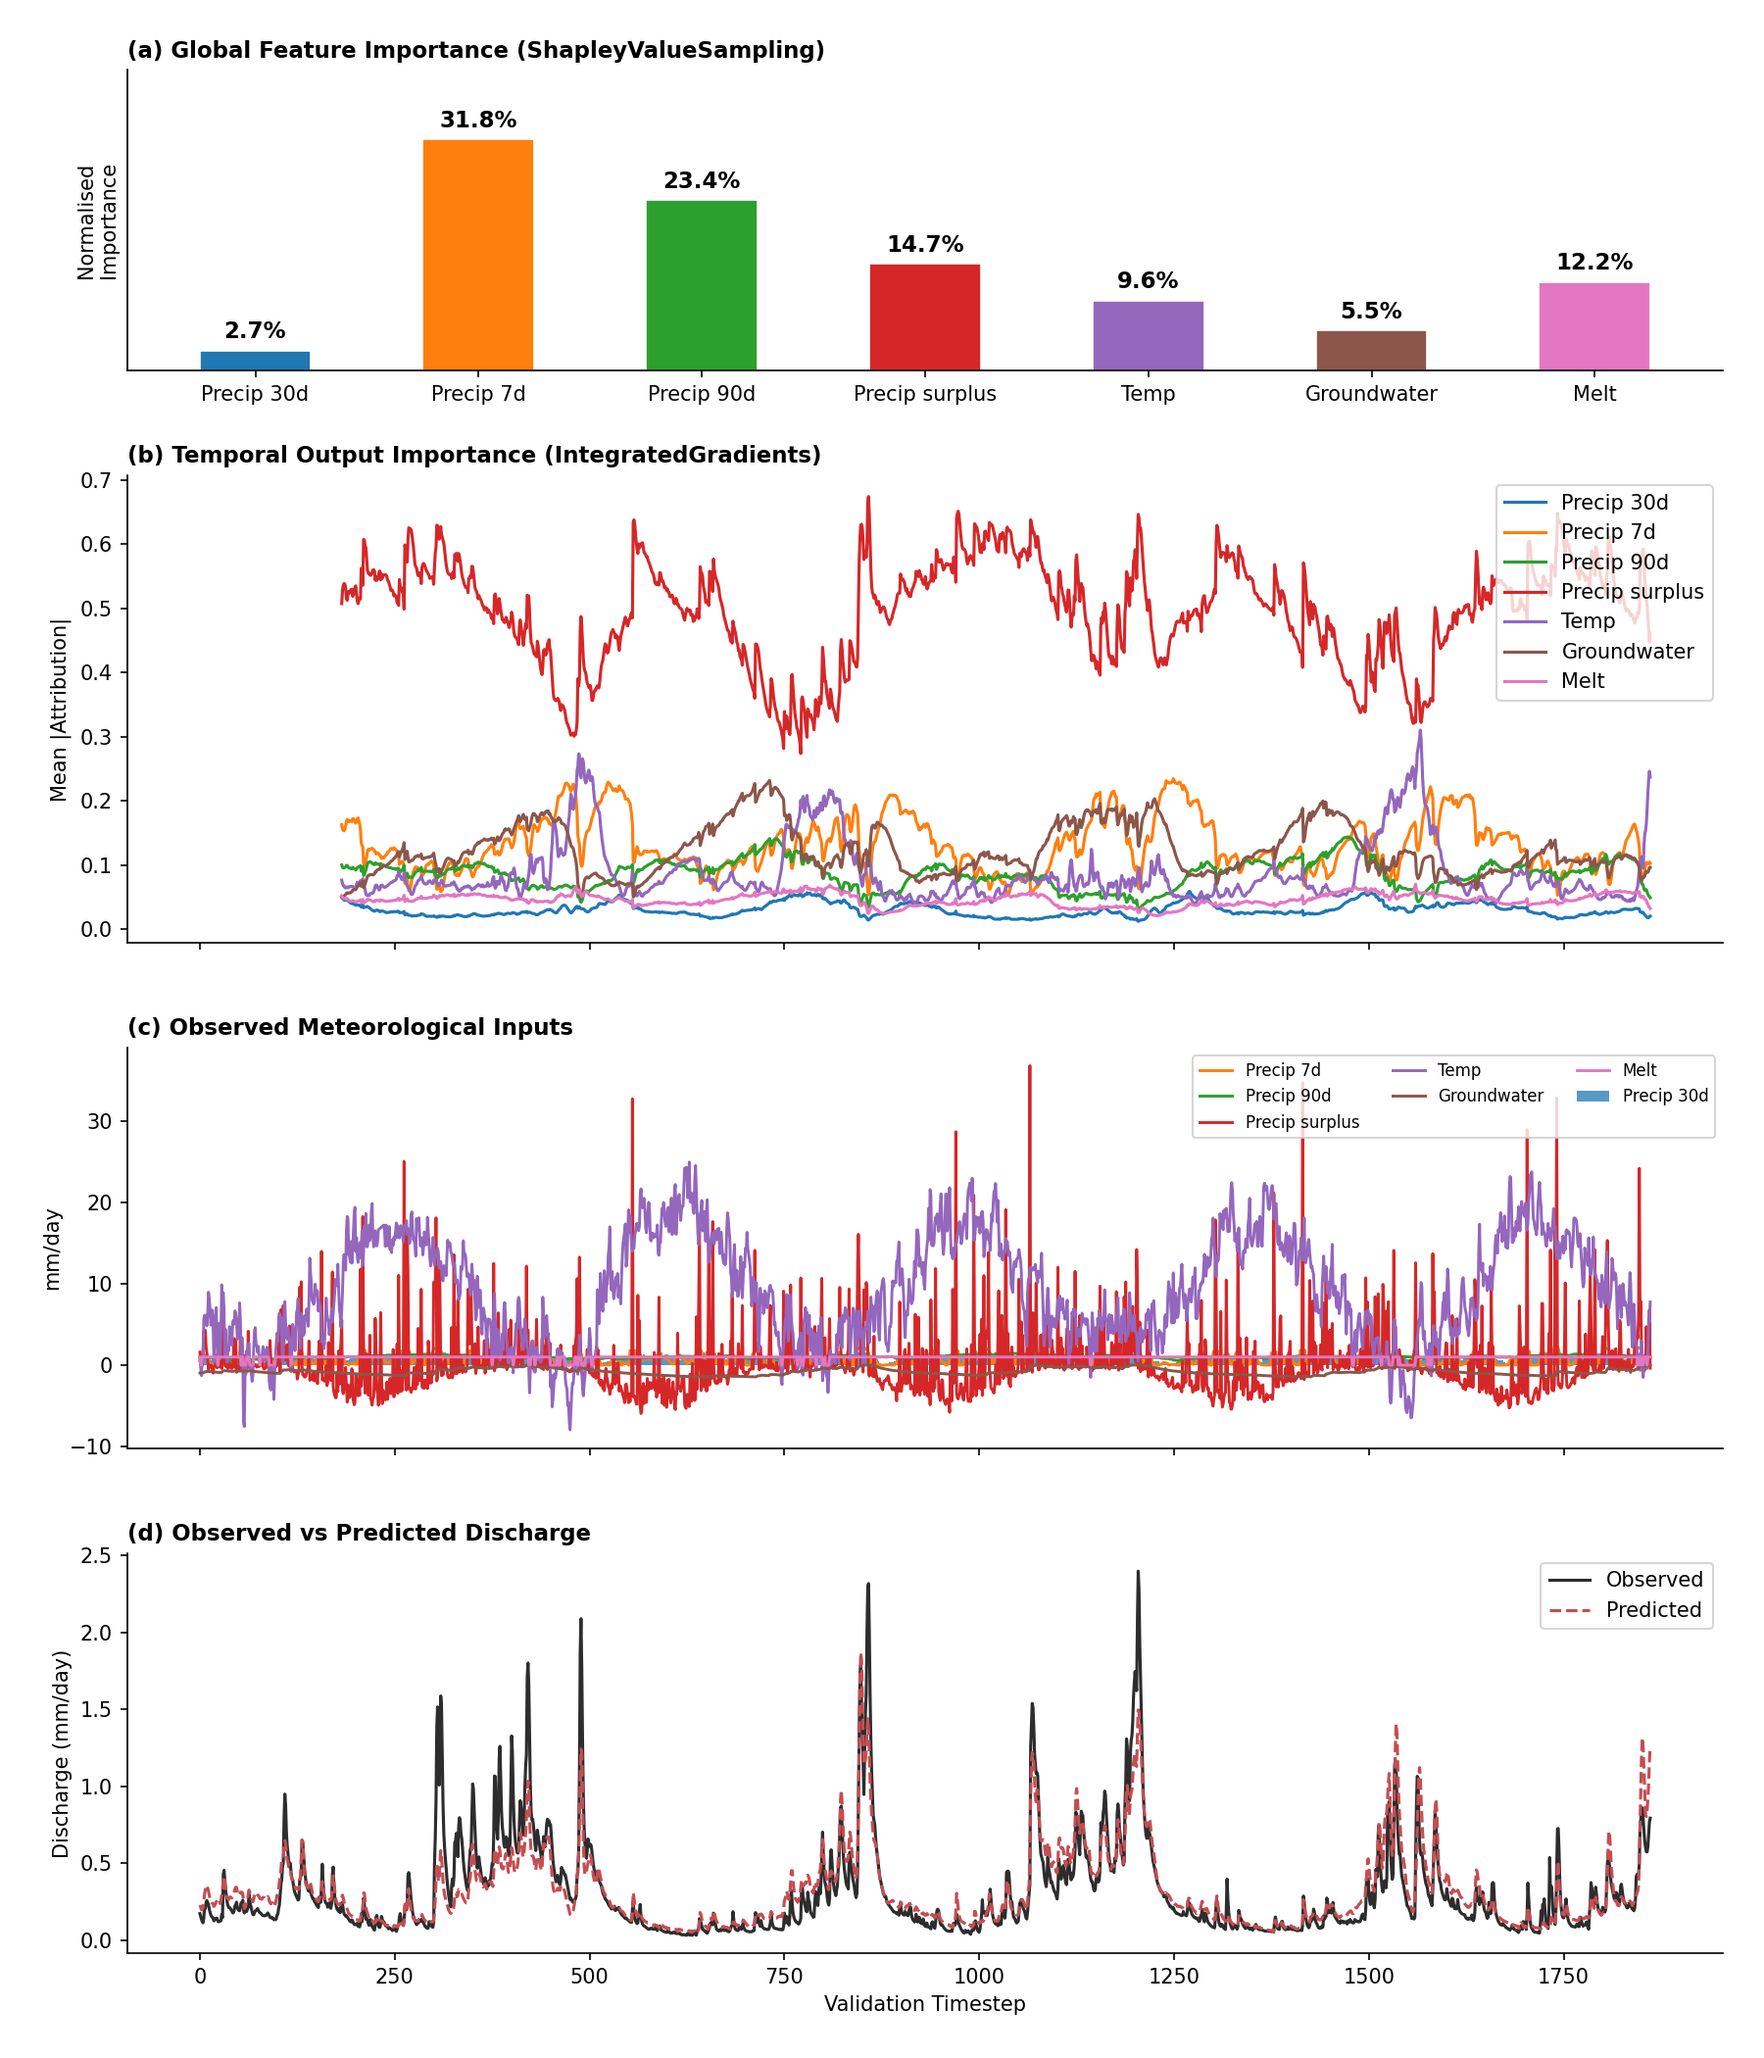
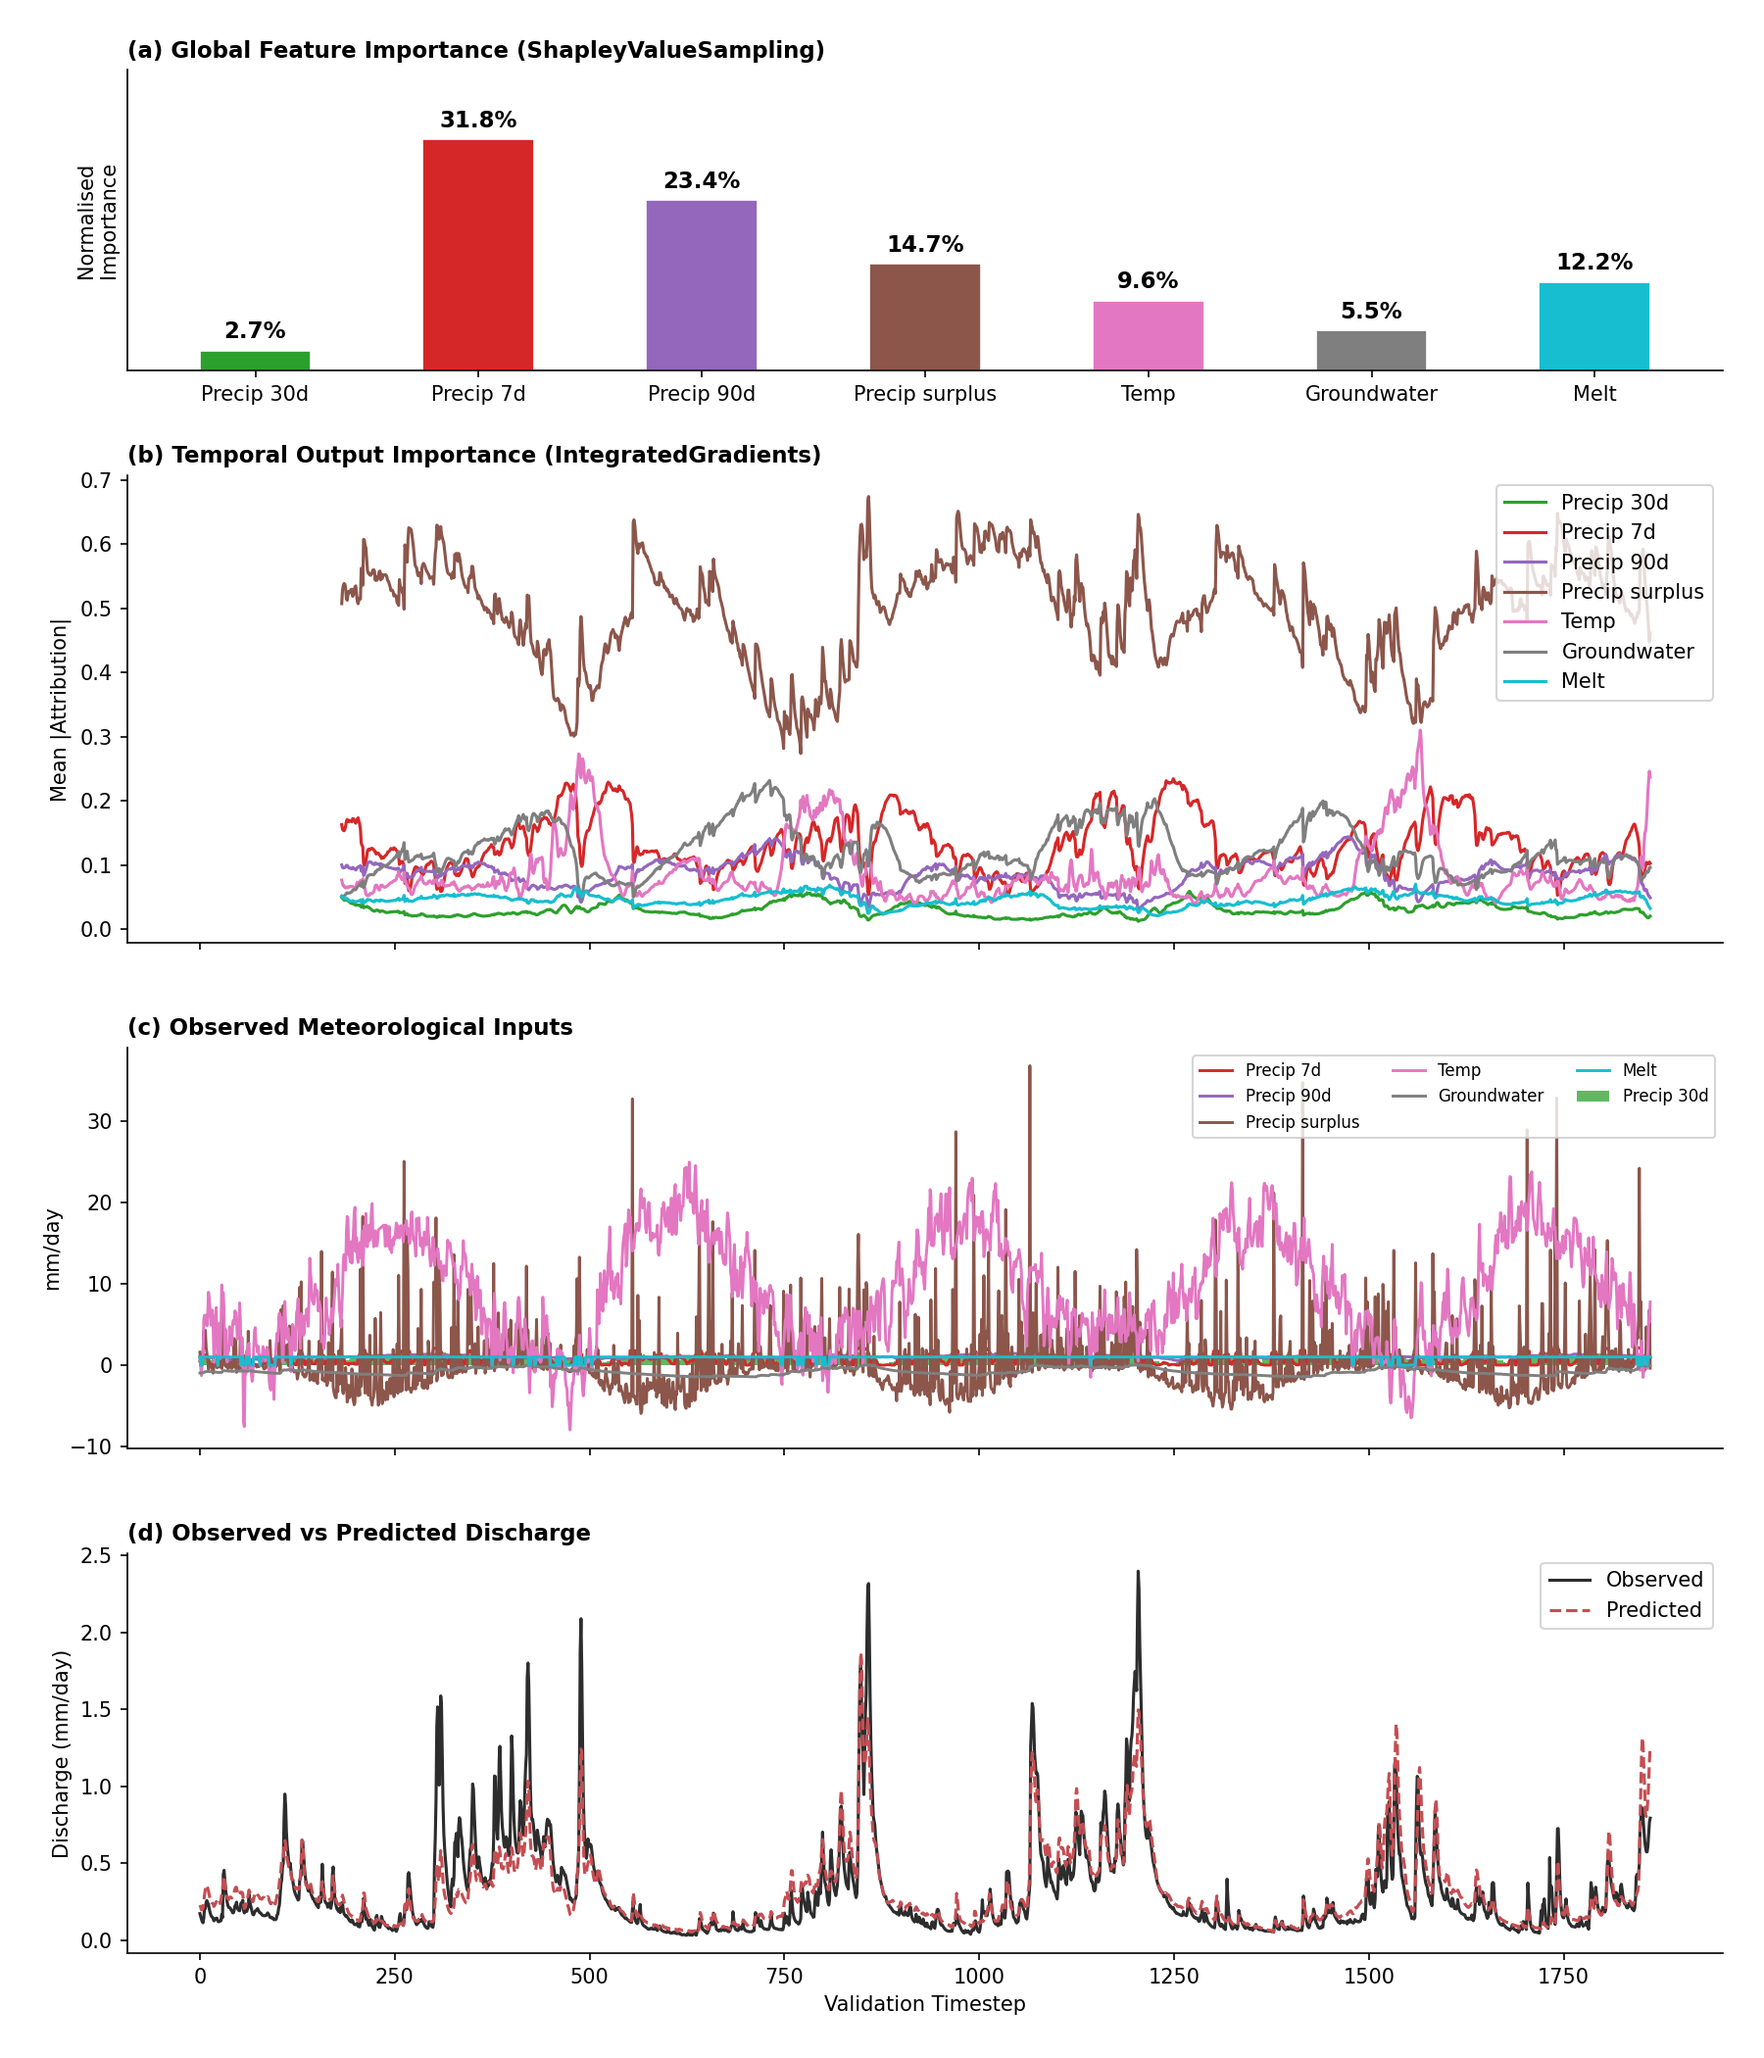
feature analysis of 7 feature model with correct colors complete

diff --git a/Single-Catchment/DM_Test.py b/Single-Catchment/DM_Test.py
@@ -9,7 +9,7 @@ from scipy import stats
 
 #Load both sets of predictions and one set of observations (obsv are the same for both)
 pred_9feat = np.load('LSTM_Havelse_9features/predictions_val.npy')
-pred_7feat = np.load('LSTM_Havelse_7features_try2/predictions_val.npy')
+pred_7feat = np.load('LSTM_Havelse_7features_/predictions_val.npy')
 obs = np.load('LSTM_Havelse_9features/observations_val.npy') #can be from either model 
 
 #Define the Diebold Mariano test function 
